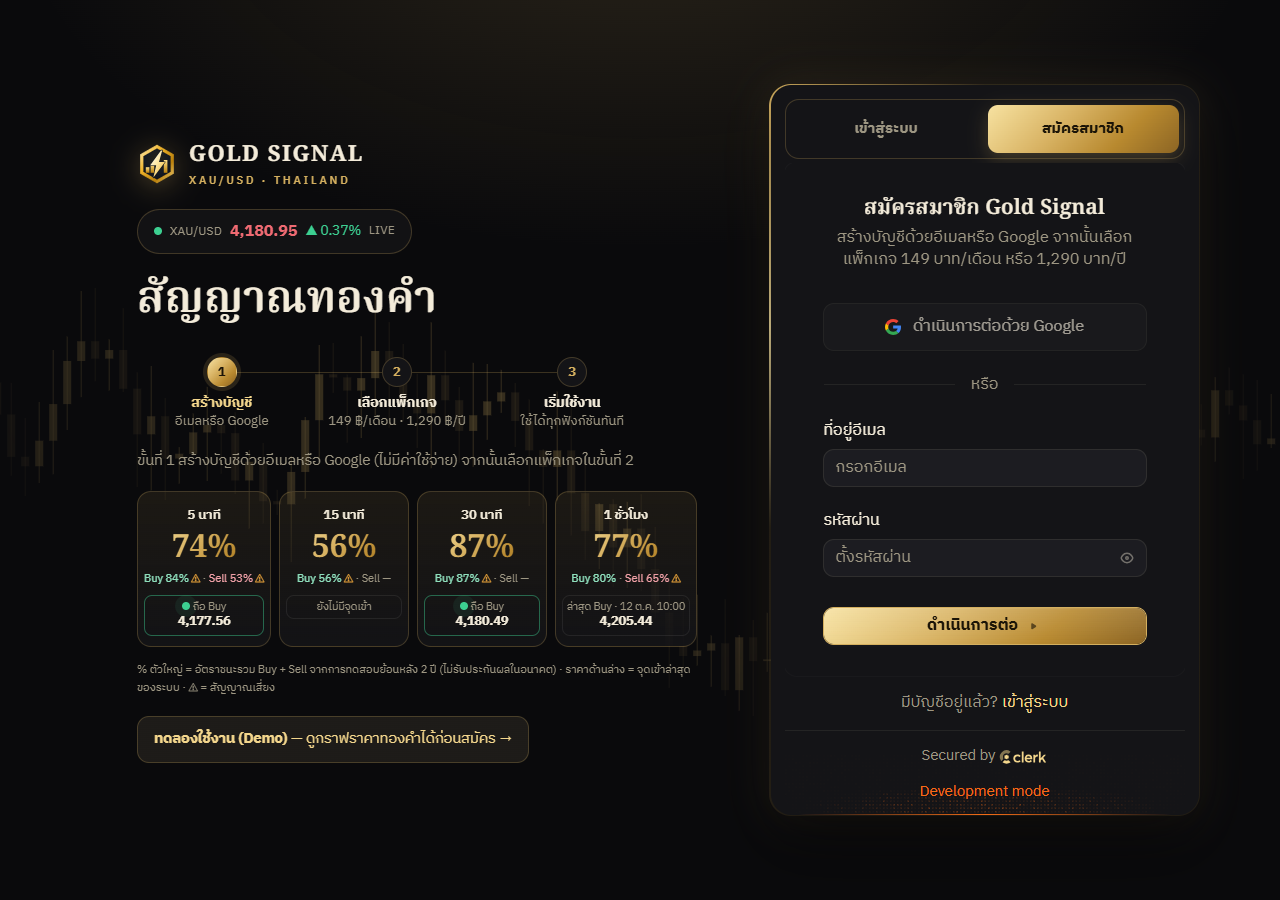
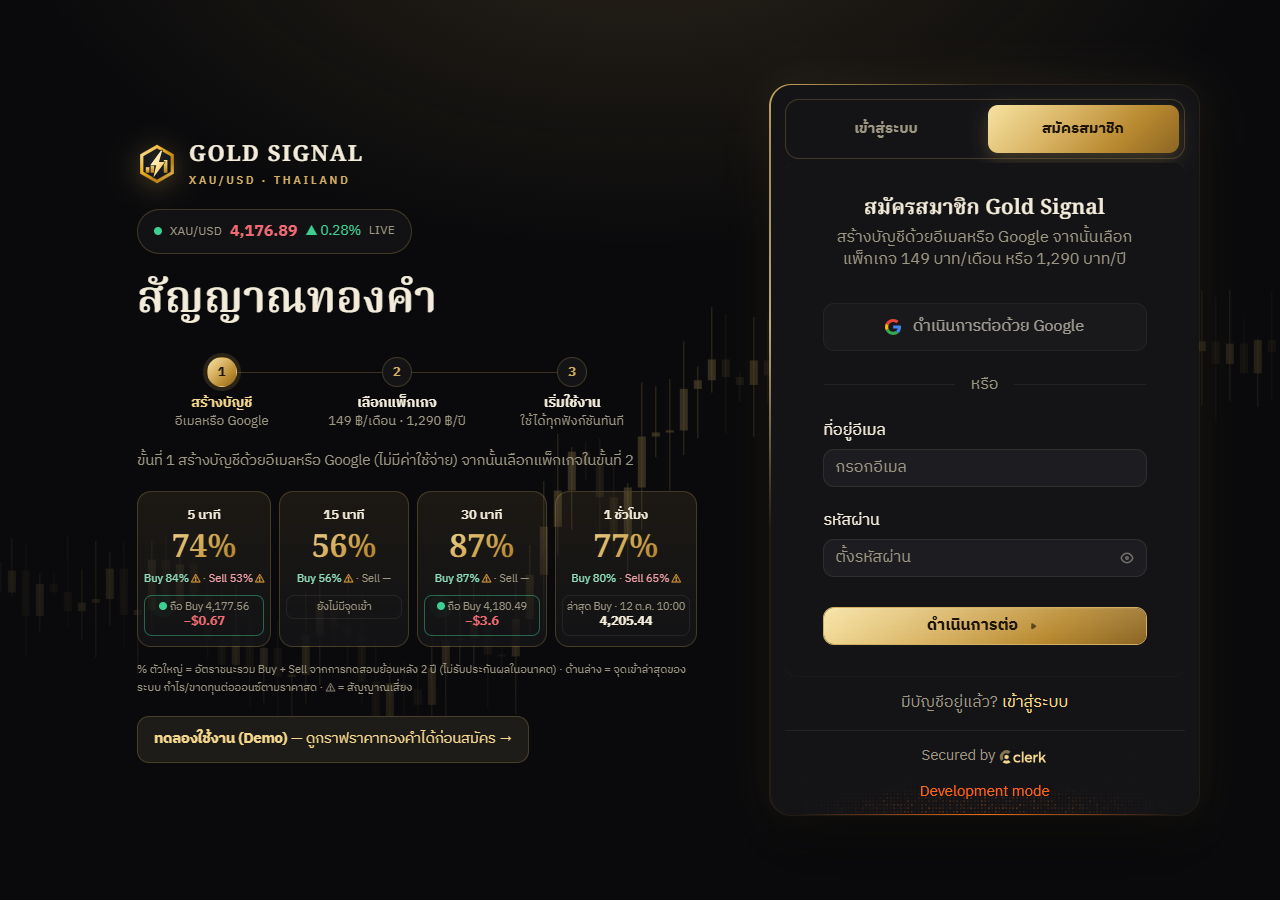
Docs: continuous recorder chain and live entry box

diff --git a/Skill.md b/Skill.md
@@ -316,6 +316,12 @@ gh workflow run weekly-summary.yml -R tanakrthum254614-max/gold-signal -f send=t
 
 > จัดเรียงใหม่ 14 ต.ค. 2569: เนื้อหาเดิมครบทุกหัวข้อ แค่เรียงตามวันที่ (ใหม่ → เก่า) · งานใหม่ให้เพิ่มหัวข้อไว้บนสุดของส่วนนี้
 
+## 19 ต.ค. 2569 — ⚡ เรียลไทม์ทุกอย่าง: รันบันทึกสัญญาณต่อกันไม่มีช่องว่าง + ช่องจุดเข้าขยับตามราคา
+- ผู้ใช้: "ขอแบบเรียลไทม์ทุกอย่าง" · ปัญหาเดิม: price-alerts.yml cron */15 แต่ GitHub เริ่มรอบช้า → รอบละ ~28 นาที ว่าง 15–40 นาที (เช่น จบ 14:05 เริ่มใหม่ 14:33) → จุดเข้า 5m/15m หลุด (เข้าเฉพาะภายใน 10 นาทีหลังแท่งปิด)
+- **chain**: price-alerts.yml มี input `chain` + `permissions: actions: write` · step แรก "Queue the next run" (เมื่อ schedule หรือ chain): `gh workflow run price-alerts.yml -f send=true -f chain=true` (จันทร์–ศุกร์ UTC เท่านั้น) → concurrency `price-alerts` ให้รอจนรอบนี้จบแล้วเริ่มต่อทันที · `SEND`/`LOOP_MINUTES=28` ใช้กับ chain ด้วย · cron ยังอยู่เป็นตัวสำรองเริ่ม chain ใหม่ (เช้าวันจันทร์ / ถ้า chain ขาด) · workflow_dispatch จาก GITHUB_TOKEN สร้างรอบใหม่ได้ (ข้อยกเว้นของ GitHub)
+- login.html ช่อง: `LAST[tf]` + `renderEnt()` เรียกทุก tick ราคา (showPrice) — ถือ = "● ถือ Buy ราคา" + ±$ ต่อออนซ์ (เขียว/แดง) · รอเข้า = "📥 รอเข้า Buy ราคา" + "อีก $x" · ไม้ใหม่ → ช่องกะพริบ · loadStats ทุก 20 วิ
+- ทดสอบ tilelive.mjs (+ช่อง 30m รอเข้าปลอม): +$0.58 → +$0.07 ใน 3 วิ, "อีก $8.70" · ไม่มี error · commit 55adbad · เริ่ม chain ด้วย dispatch มือ 07:55 UTC
+
 ## 19 ต.ค. 2569 — ✂ ช่อง 4 กรอบ: เอา "N จุดเข้า" ออก
 - ผู้ใช้ (ภาพบรรทัด 1,957 / 230 / 765 / 435 จุดเข้า): "เอาออก" → login.html ลบ `.cnt` (markup + JS) และ " · จุดเข้า = จำนวนครั้งในการทดสอบ" ใน .tcap · `tiles[].all.n` ใน API ยังอยู่ (ใช้ถ่วง % รวม) · ทดสอบ tilelive.mjs คอม + มือถือ ไม่มี error
 

diff --git a/README.md b/README.md
@@ -32,7 +32,7 @@
 <td><img src="docs/img/pricing.png" alt="Pricing"><br><sub><b>แพ็กเกจสมาชิก</b> — ชำระผ่าน Stripe (บัตร / PromptPay)</sub></td>
 </tr>
 <tr>
-<td><img src="docs/img/login.png" alt="Sign up"><br><sub><b>การเข้าสู่ระบบและสมัครสมาชิก</b> — จัดวางสองส่วน: ข้อมูลด้านซ้าย แบบฟอร์มด้านขวา พร้อมราคาทองคำแบบเรียลไทม์ อัตราชนะรวมและแยกฝั่ง Buy / Sell จากการทดสอบย้อนหลัง และจุดเข้าล่าสุดของแต่ละกรอบเวลา ขั้นตอน 3 ขั้น และคำถามที่พบบ่อย</sub></td>
+<td><img src="docs/img/login.png" alt="Sign up"><br><sub><b>การเข้าสู่ระบบและสมัครสมาชิก</b> — จัดวางสองส่วน: ข้อมูลด้านซ้าย แบบฟอร์มด้านขวา พร้อมราคาทองคำแบบเรียลไทม์ อัตราชนะรวมและแยกฝั่ง Buy / Sell จากการทดสอบย้อนหลัง และจุดเข้าล่าสุดของแต่ละกรอบเวลาพร้อมกำไร/ขาดทุนตามราคาสด ขั้นตอน 3 ขั้น และคำถามที่พบบ่อย</sub></td>
 <td><img src="docs/img/marketing.png" alt="Back office"><br><sub><b>ระบบหลังบ้าน</b> — ผู้ช่วยร่างประกาศการตลาดจากข้อมูลจริง</sub></td>
 </tr>
 </table>
@@ -87,7 +87,7 @@ flowchart LR
 
 - **Frontend** — HTML, CSS, JavaScript (ไม่ใช้ framework) · TradingView Lightweight Charts
 - **Backend** — Vercel Serverless Functions, Edge Middleware, Vercel Blob, Vercel Cron
-- **Automation** — GitHub Actions (ตรวจสอบสัญญาณทุก 5 นาที, งานรายวัน / รายสัปดาห์ / รายเดือน)
+- **Automation** — GitHub Actions (ตรวจสอบสัญญาณทุก 5 นาทีต่อเนื่อง โดยแต่ละรอบจัดคิวรอบถัดไปเพื่อไม่ให้มีช่วงว่าง, งานรายวัน / รายสัปดาห์ / รายเดือน)
 - **Integrations** — Stripe, Clerk, LINE Messaging API, Web Push, Vercel AI Gateway, SEC EDGAR
 - **Research** — Node.js และ Python สำหรับการทดสอบย้อนหลัง (`research/`)
 
